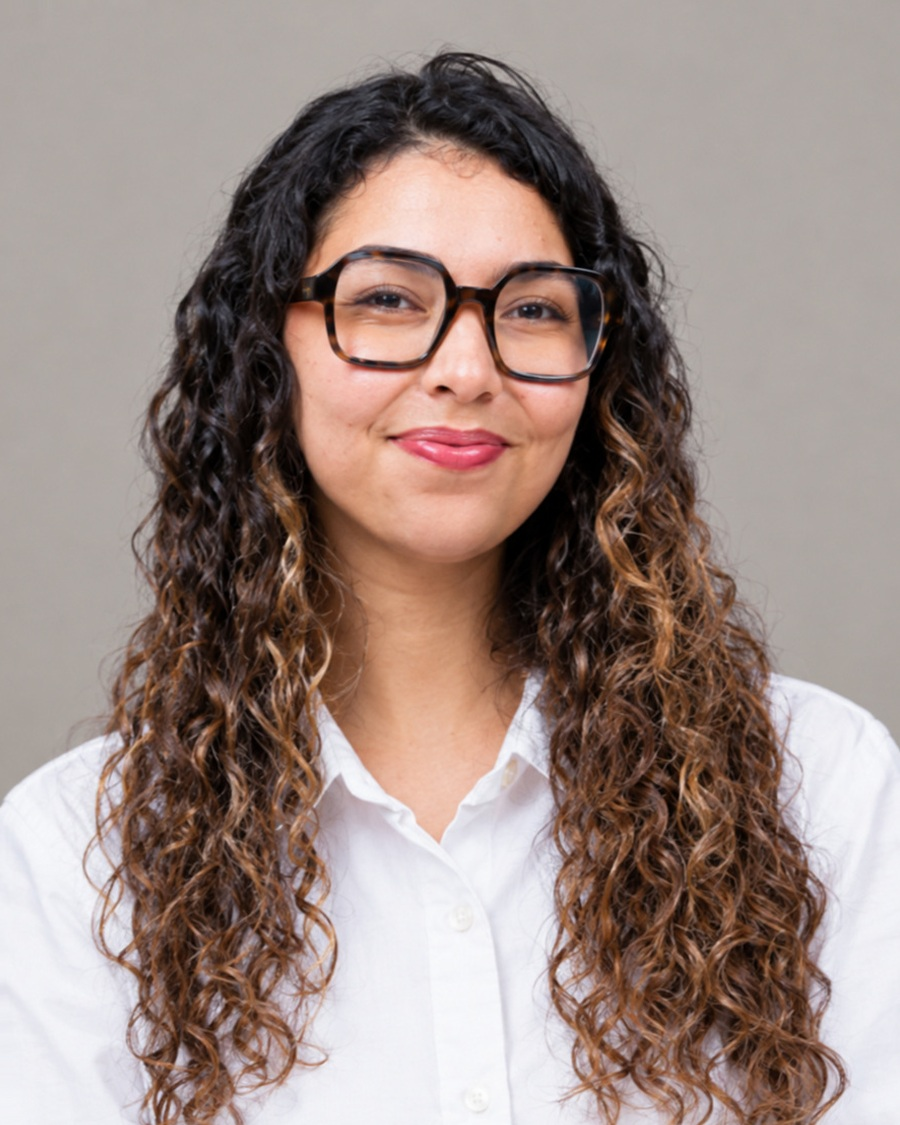
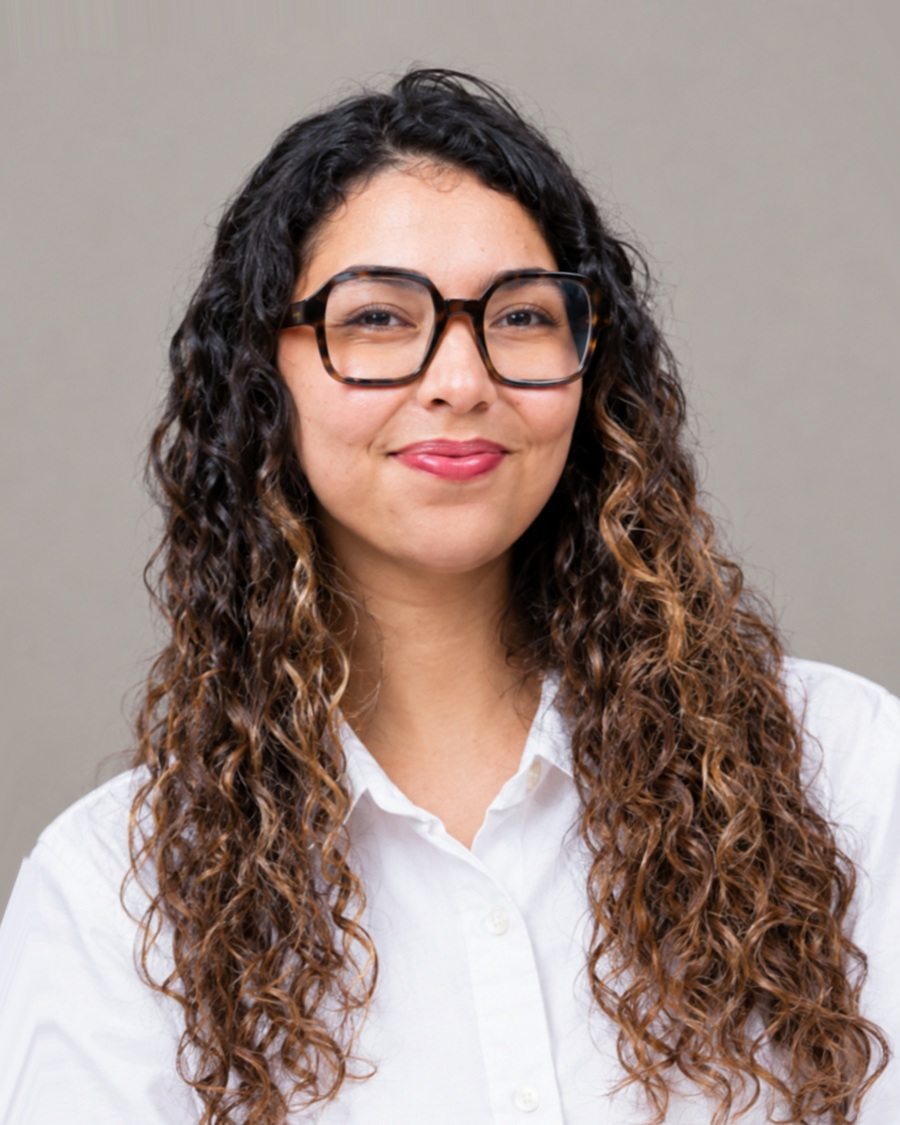
Manuela left; eye-line calibrated portraits; materially larger teacher type

diff --git a/css/fa-capsules-launch-design.css b/css/fa-capsules-launch-design.css
@@ -48,13 +48,14 @@ html:root:root:root:root:root body#fa .cap-teacher-featured .cap-portrait img {
 .cap-teacher-copy { padding: 36px 0 0; }
 .cap-theme { font: 700 17px/1.4 var(--sans); color: #70572c; margin: 0 0 10px; }
 html:root:root:root:root:root body#fa .cap-teacher h3 {
-  font: 500 clamp(34px,3.15vw,50px)/1.08 var(--serif) !important;
+  font: 500 clamp(38px,3.5vw,56px)/1.08 var(--serif) !important;
   color: #0b0b2a !important;
   letter-spacing: -.02em;
   margin: 0 0 16px;
 }
-html:root:root:root:root:root body#fa .cap-role { font: 500 22px/1.45 var(--sans) !important; min-height: 2.9em; color: #70572c; margin: 0 0 24px; }
-html:root:root:root:root:root body#fa .cap-bio { font: 400 26px/1.5 var(--sans) !important; color: #26354b; margin: 0; }
+html:root:root:root:root:root body#fa .cap-role { font: 500 25px/1.4 var(--sans) !important; min-height: 2.8em; color: #70572c; margin: 0 0 24px; }
+html:root:root:root:root:root body#fa .cap-bio { font: 400 30px/1.4 var(--sans) !important; color: #26354b; margin: 0; }
+.cap-bio br { display: none; }
 .cap-bio-break { display: none; }
 .cap-teacher-featured .cap-portrait { outline: none; }
 #watch .kpx-frame video { display: block; width: 100%; height: 100%; object-fit: contain; }
@@ -76,9 +77,9 @@ html:root:root:root:root:root body#fa .cap-bio { font: 400 26px/1.5 var(--sans) 
   .cap-role { min-height: 0; }
   .cap-faculty-head > p { font-size: 18px; }
   .cap-teacher-copy { padding-top: 28px; }
-  html:root:root:root:root:root body#fa .cap-teacher h3 { font-size: 40px !important; }
-  html:root:root:root:root:root body#fa .cap-role { font-size: 20px !important; min-height: 0; margin-bottom: 20px; }
-  html:root:root:root:root:root body#fa .cap-bio { font-size: 22px !important; }
+  html:root:root:root:root:root body#fa .cap-teacher h3 { font-size: 44px !important; }
+  html:root:root:root:root:root body#fa .cap-role { font-size: 22px !important; min-height: 0; margin-bottom: 20px; }
+  html:root:root:root:root:root body#fa .cap-bio { font-size: 25px !important; }
   .cap-bio br { display: none; }
   html:root:root:root:root:root body#fa.cap-page .kps-card .title { min-height: 0; }
   html:root:root:root:root:root body#fa.cap-page .kps-card .what { min-height: 0; }

diff --git a/culture-capsules.html b/culture-capsules.html
@@ -293,20 +293,20 @@
       <h2 id="cap-faculty-title">Meet your<br><span>French culture insiders.</span></h2>
     </div>
     <div class="cap-faculty-grid">
-      <article class="cap-teacher">
-        <div class="cap-portrait"><img src="assets/teachers/capsules/vicky.jpg" alt="Vicky Bourdenecc" width="600" height="800" loading="lazy" decoding="async"></div>
-        <div class="cap-teacher-copy">
-          <h3>Vicky Bourdenecc</h3>
-          <p class="cap-role">Wine &amp; Gastronomy Instructor</p>
-          <p class="cap-bio"><strong>WSET Technical Editor</strong> and<br> international wine juror, with<br> 15+ years teaching across Europe.</p>
-        </div>
-      </article>
       <article class="cap-teacher cap-teacher-featured">
         <div class="cap-portrait"><img src="assets/teachers/capsules/manuela.jpg" alt="Manuela Breschi" width="600" height="800" loading="lazy" decoding="async"></div>
         <div class="cap-teacher-copy">
           <h3>Manuela Breschi</h3>
           <p class="cap-role">Fashion &amp; Luxury Instructor</p>
           <p class="cap-bio">From <strong>Christian Dior</strong> to recruiting<br> creative talent for luxury brands.<br> ESSEC MBA. 20+ years recruiting.</p>
+        </div>
+      </article>
+      <article class="cap-teacher">
+        <div class="cap-portrait"><img src="assets/teachers/capsules/vicky.jpg" alt="Vicky Bourdenecc" width="600" height="800" loading="lazy" decoding="async"></div>
+        <div class="cap-teacher-copy">
+          <h3>Vicky Bourdenecc</h3>
+          <p class="cap-role">Wine &amp; Gastronomy Instructor</p>
+          <p class="cap-bio"><strong>WSET Technical Editor</strong> and<br> international wine juror, with<br> 15+ years teaching across Europe.</p>
         </div>
       </article>
       <article class="cap-teacher">
